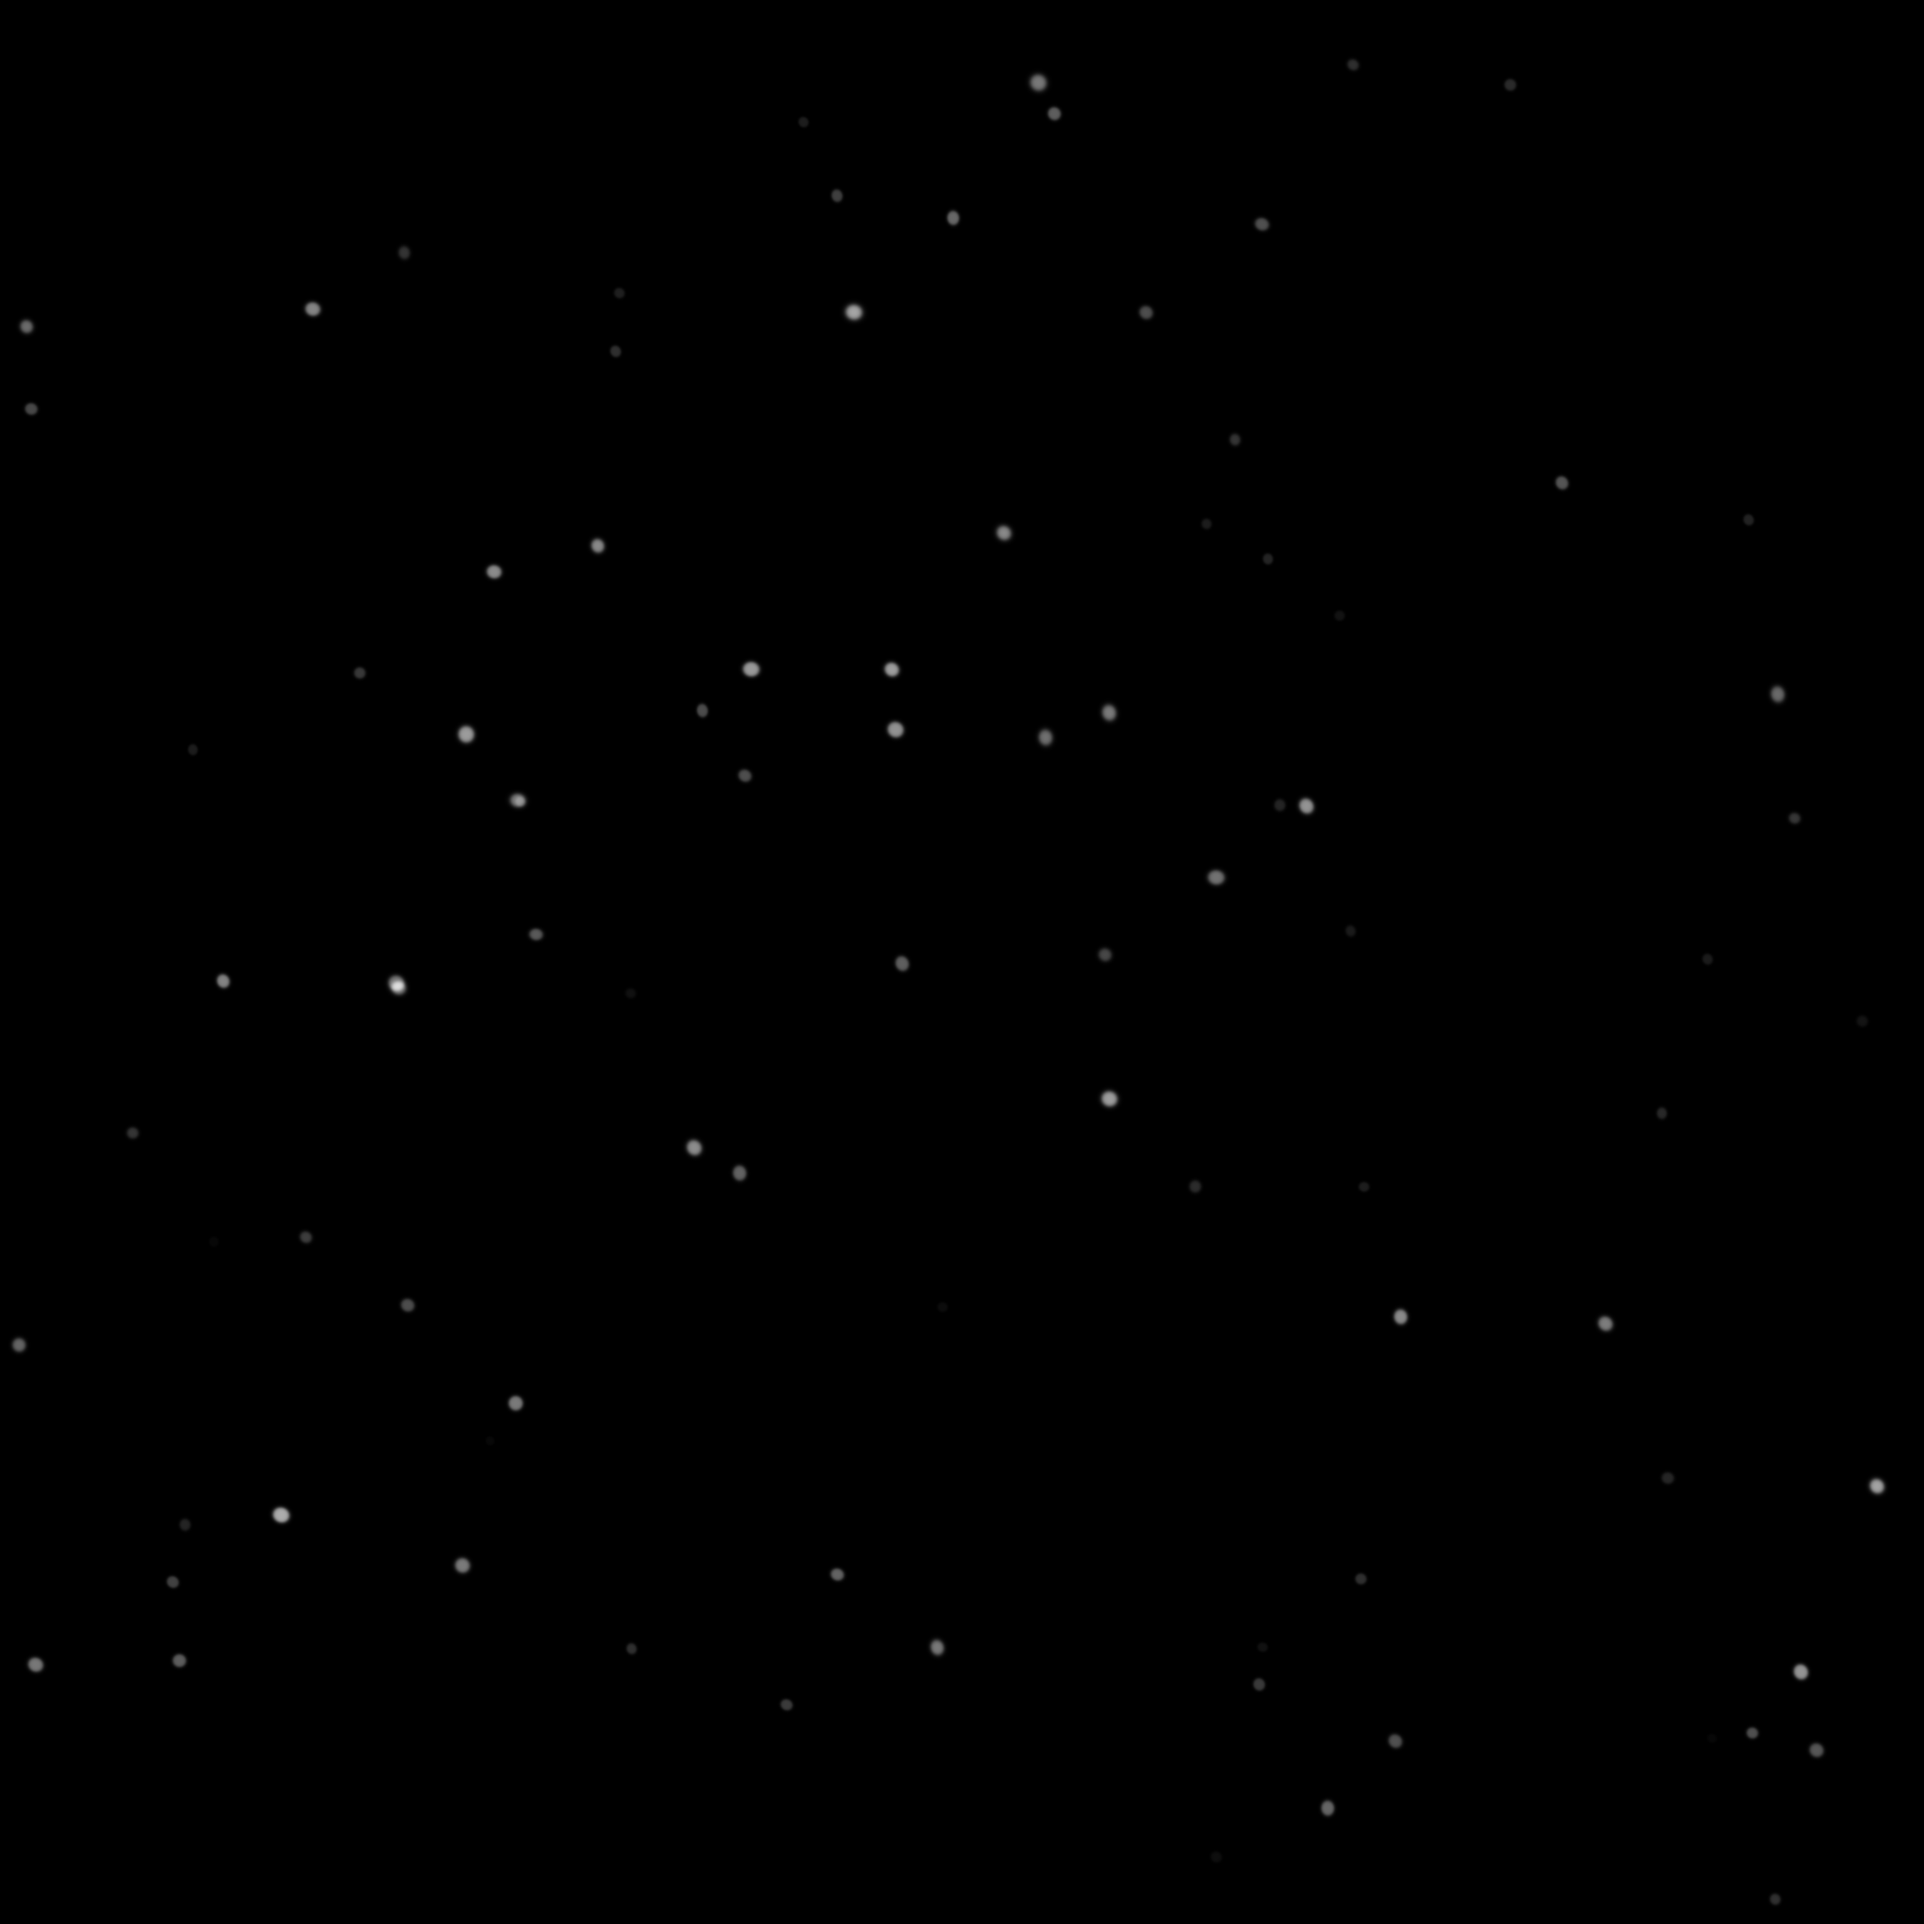
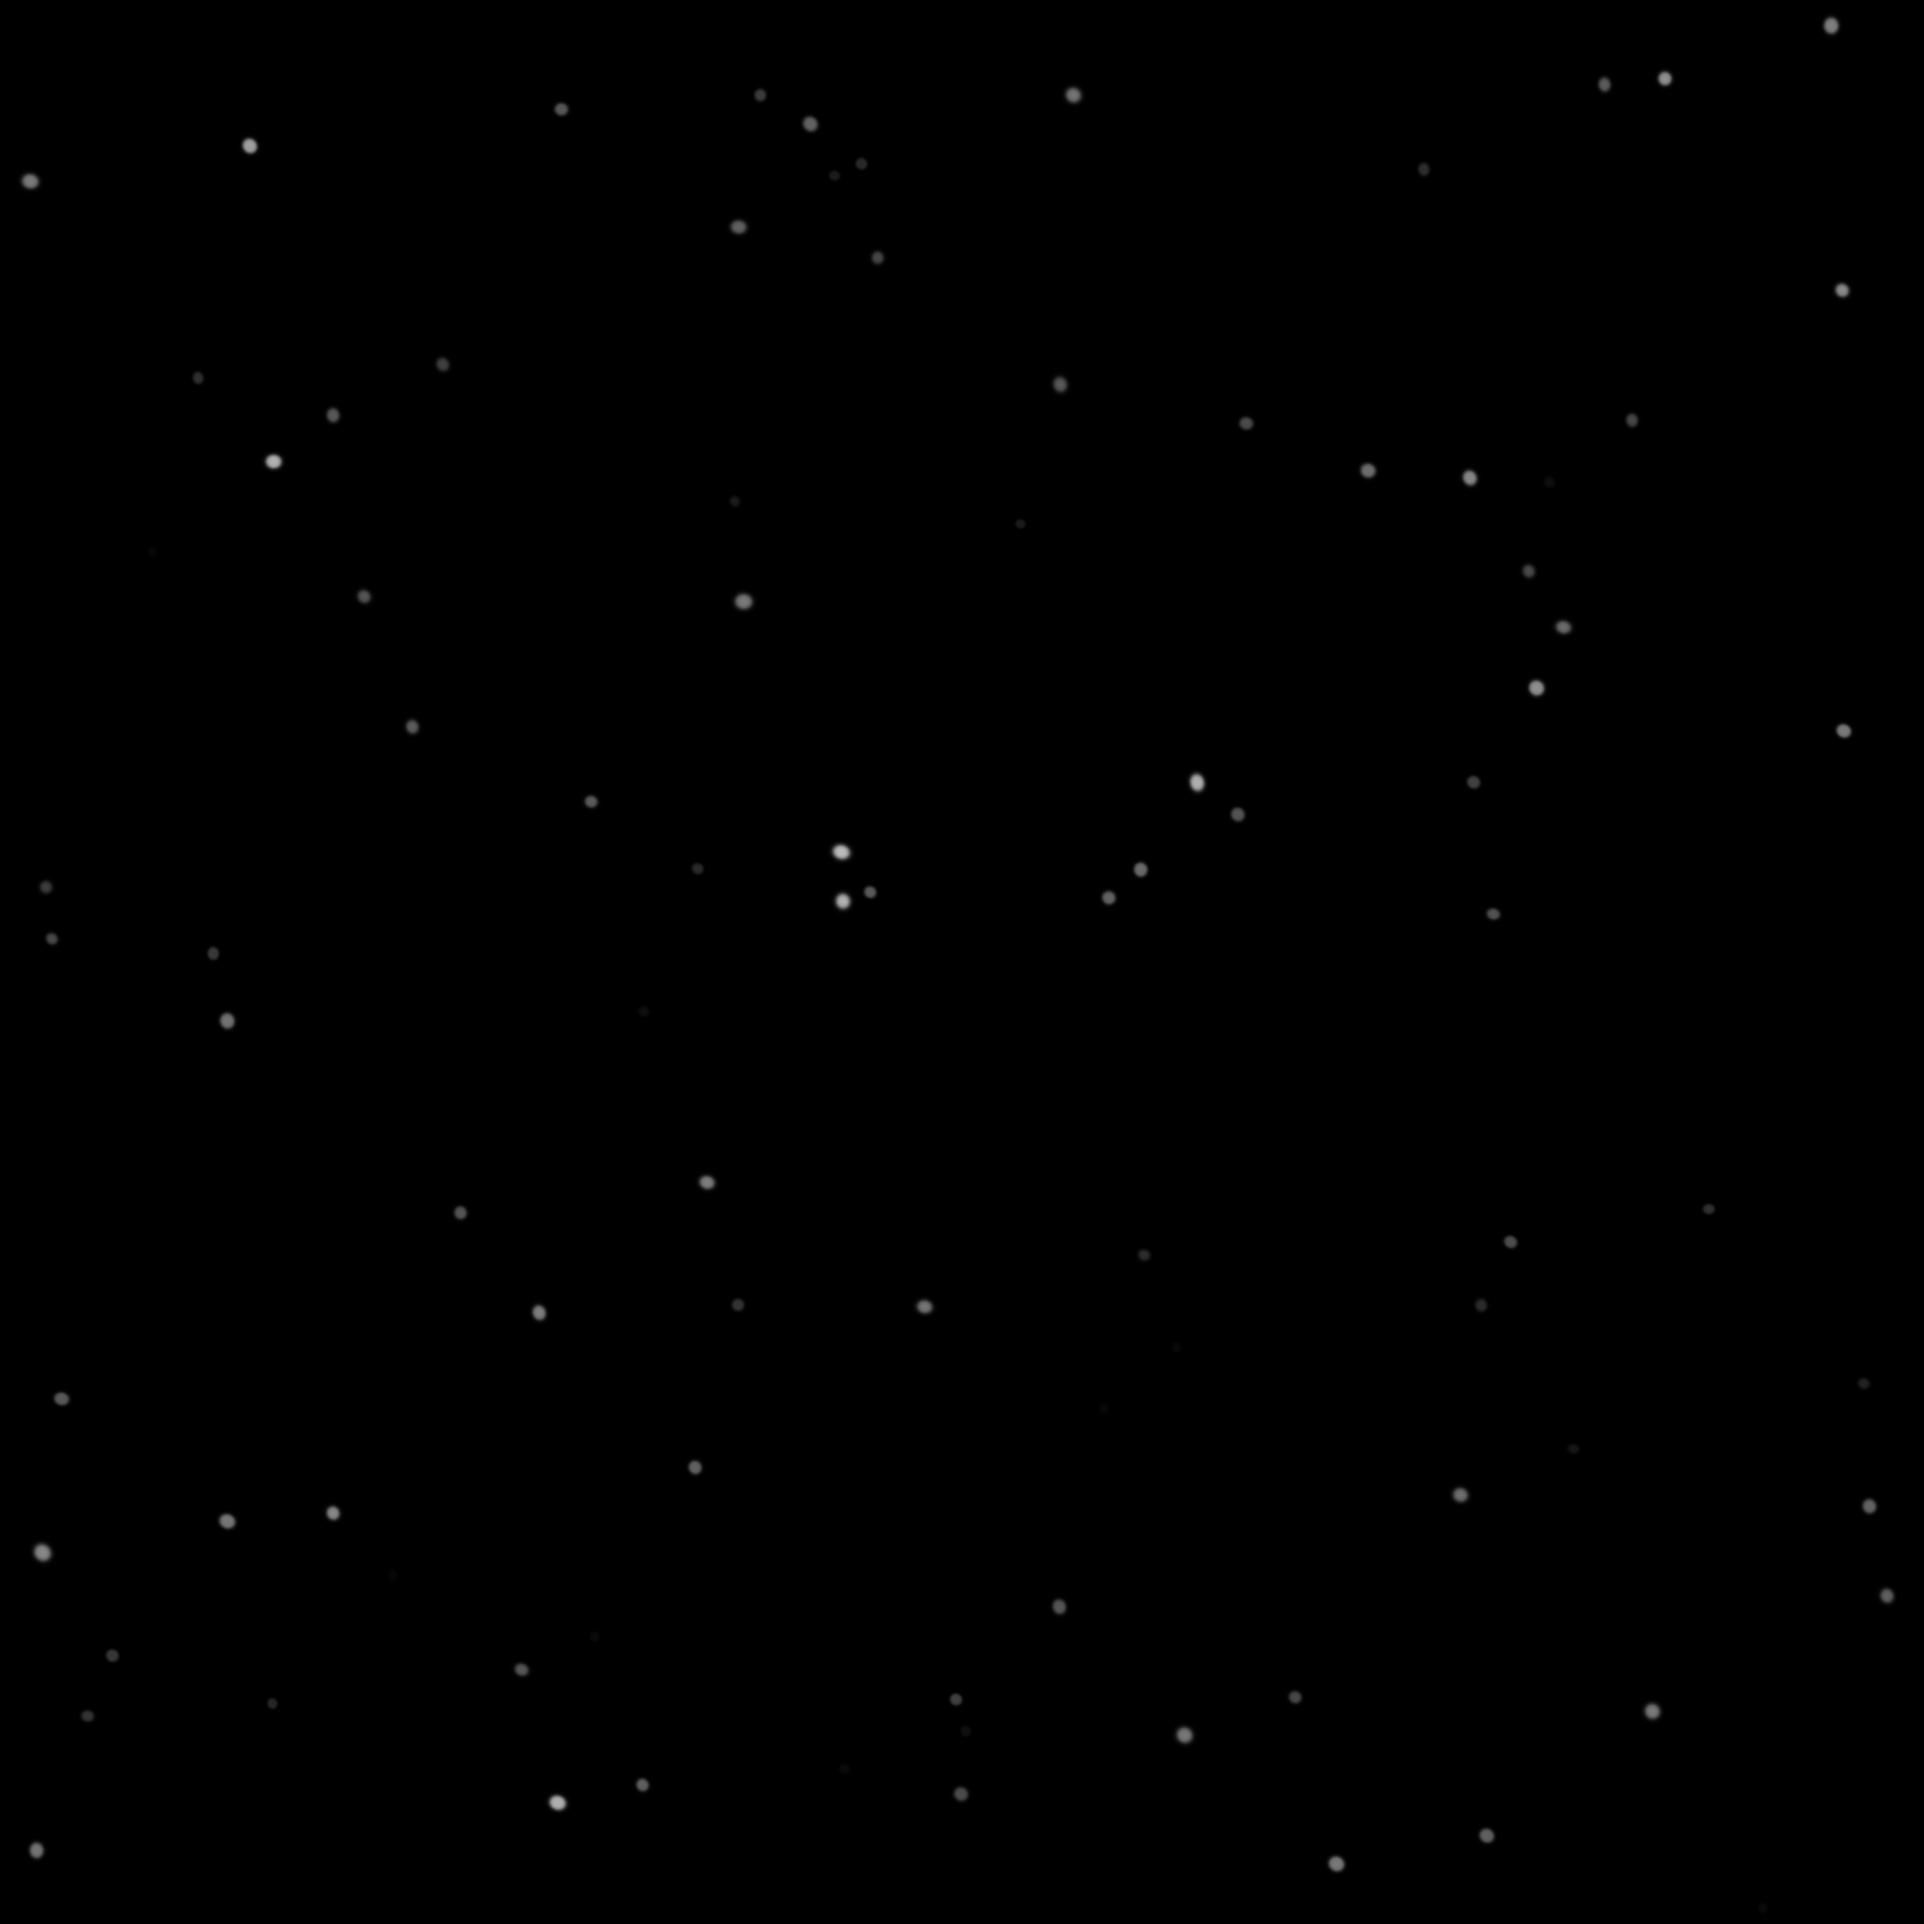
add

Changed region(s): [[0.5312, 0.0312, 0.5625, 0.0625], [0.4375, 0.4375, 0.4688, 0.4688], [0.3438, 0.5938, 0.375, 0.625]]

diff --git a/generate_image_random.py b/generate_image_random.py
@@ -1,0 +1,141 @@
+import uuid
+
+from matplotlib import pyplot as plt
+from stars import BH_stars_img
+from telescope_simulator import TelescopeSimulator
+import json
+import cv2
+import os
+import pandas as pd
+from tqdm import tqdm
+import glob
+import time
+import concurrent.futures
+import shutil
+import numpy as np
+
+
+num_imgaes = 10
+height = 1024
+width = 1024
+shape = 'rect'
+mode = 'train_val'
+noise_radius = 0
+
+def generate_image_func(angular_pixel_size_input_image):
+
+    tele_config = dict(
+        input_image = r"./stars/BHs.png", telescope_diameter_m = 6.5,
+        telescope_focal_length_m = 131.4, angular_pixel_size_input_image = angular_pixel_size_input_image,
+        wavelength = 100e-9, CCD_pixel_size = angular_pixel_size_input_image * 131.4 / 206265,
+        CCD_pixel_count = 1024, show = False,
+    )
+
+    stars_config = dict(
+        BHs_path='tele_datasets/224/',num_stars=1, num_BHs=0, stars_lower_size=5, stars_upper_size=15,
+        height=height, width=width, bg_color=0, shape=shape, BHS_lower_size=30, BH_upper_size=50
+    )
+
+    data_dir = f'tele_datasets/Changing/num{num_imgaes}_{shape}_wl{tele_config["wavelength"]:.3e}_'\
+    f'D{tele_config["telescope_diameter_m"]:.2f}_F{tele_config["telescope_focal_length_m"]}_'\
+    f'AS{tele_config["angular_pixel_size_input_image"]:.2e}_BHSize{stars_config["BHS_lower_size"]}-{stars_config["BH_upper_size"]}'
+
+
+    if mode == 'train_val':
+        try:
+            os.mkdir(f'{data_dir}')
+            os.mkdir(f'{data_dir}/images')
+            os.mkdir(f'{data_dir}/labels')
+        except:
+            shutil.rmtree(f'{data_dir}')
+            os.mkdir(f'{data_dir}')
+            os.mkdir(f'{data_dir}/images')
+            os.mkdir(f'{data_dir}/labels')
+
+
+    with open(f'{data_dir}/data.yaml', 'w') as f:
+        f.write(f'path: ../{data_dir}\n')
+        f.write('train: ./train/images\n')
+        f.write('val: ../validation/images\n\n')
+        f.write('nc: 2\n')
+        f.write("names: ['star', 'BH']\n")
+
+
+    with open(f"{data_dir}/telescope_config.json", "w") as json_file:
+        json.dump(tele_config, json_file)
+
+    with open(f"{data_dir}/stars_config.json", "w") as json_file:
+        json.dump(stars_config, json_file)
+
+
+    df = pd.DataFrame(columns=['images', 'labels'])
+
+
+    for i in tqdm(range(num_imgaes)):
+        img = BH_stars_img(**stars_config)
+        img.stars_gen()
+        # img.BHs_gen()
+        # noise_BHs = img.add_noise(img.stars_BHs_img, radius=noise_radius)
+        tele_config['input_image'] = img.stars_BHs_img
+        telescope_simulator = TelescopeSimulator(**tele_config)
+        code = uuid.uuid4()
+        if mode == 'train_val':
+            bh_path = f"{data_dir}/images/BHs_{code}.png"
+            # bh_path_origin = f"{data_dir}/train/images/BHs_{code}_origin.png"
+            txt_path = f"{data_dir}/labels/BHs_{code}.txt"
+        elif mode == 'img_lab':
+            bh_path = f"{data_dir}/images/BHs_{code}.png"
+            txt_path = f"{data_dir}/labels/BHs_{code}.txt"
+        else:
+            df = pd.concat([df, pd.DataFrame({"images":[f"BHs_{code}.png"], "labels": [f"BHs_{code}.txt"]})])
+            bh_path = f"{data_dir}/images/BHs_{code}.png"
+            txt_path = f"{data_dir}/labels/BHs_{code}.txt"
+        # print(i)
+        show=False
+        im_array = img.stars_BHs_img
+        # plt.imshow(im_array)
+        # plt.show()
+        intensity_image = telescope_simulator.get_intensity(im_array, show=show)
+        conv_image = telescope_simulator.get_convolved_image(im_array, intensity_image, show=show)
+        output_img = telescope_simulator.generate_image(conv_image, show=show)
+        # output_img = telescope_simulator.generate_image(show=False)
+        output_img = output_img.astype(np.int64)
+        noisy_img = output_img + np.random.normal(loc=0, scale=noise_radius, size=(height, width))
+        noisy_img = np.where(noisy_img > 255, 255, noisy_img)
+        noisy_img = np.where(noisy_img < 0, 0, noisy_img)
+        noisy_img = noisy_img.astype(np.uint8)
+        noisy_img = cv2.resize(noisy_img, (1024, 1024))
+        cv2.imwrite(bh_path, noisy_img)
+        img.txtGen(txt_path=txt_path)
+
+
+
+    if mode == 'csv':
+        df.to_csv(f"{data_dir}/train.csv", header=False, index=False)
+
+
+
+    # img_lst = glob.glob(f'{data_dir}/*/*/*.png')
+
+
+    # for img_name in tqdm(img_lst):
+    #     img = cv2.imread(img_name, cv2.IMREAD_GRAYSCALE)
+    #     img_resize = cv2.resize(img, (1024, 1024))
+    #     cv2.imwrite(img_name, img_resize)
+
+
+
+if __name__ == '__main__':
+    # np.arange(5e-5, 2e-4, 1e-5)
+    angular_pixel_size_input_images = np.arange(5e-4, 1e-3, 5e-5)
+    t1 = time.perf_counter()
+    with concurrent.futures.ProcessPoolExecutor() as executor:
+        executor.map(generate_image_func, angular_pixel_size_input_images)
+    # for i in angular_pixel_size_input_images:
+    #     generate_image_func(i)
+    # generate_image_func(5e-4)    
+    t2 = time.perf_counter()
+    with open('tele_datasets/records.txt', 'a') as f:
+        for i in angular_pixel_size_input_images:
+            f.write(f'{i:2e}\n')
+

diff --git a/stars.py b/stars.py
@@ -105,7 +105,7 @@ class BH_stars_img():
 
         Returns:
             _type_: _description_
-        """        
+        """ 
         img = img.astype(np.int64)
         noisy_img = img + np.random.normal(loc=0, scale=radius, size=(self.height, self.width))
         noisy_img = np.where(noisy_img > 255, 255, noisy_img)
@@ -136,7 +136,7 @@ class BH_stars_img():
             size = np.random.randint(low=self.stars_lower_size, high=self.stars_upper_size)  # Size of the square grid
             sigma_x = np.random.uniform(0.9, 1.1)  # Standard deviation for the Gaussian distribution
             sigma_y = np.random.uniform(0.9, 1.1)  # Standard deviation for the Gaussian distribution
-            luminosity = (size - self.stars_lower_size) / (self.stars_upper_size - self.stars_lower_size) * \
+            luminosity = (size - self.stars_lower_size + 0.3) / (self.stars_upper_size - self.stars_lower_size) * \
                          np.random.uniform(0.5, 0.8)  # Maximum brightness at the center
             if color:
                 pass
@@ -220,31 +220,38 @@ class BH_stars_img():
         Args:
             txt_path (str, optional): _description_. Defaults to 'labels.txt'.
         """        
-        if self.shape == 'rect':
+        if self.num_BHs != 0:
+            if self.shape == 'rect':
+                
+                BH_df = pd.DataFrame(self.BH_lst, columns=['xc', 'yc', 'width', 'height'])
+                BH_df['type'] = 1
+                type_column = BH_df.pop('type')
+                BH_df.insert(0, 'type', type_column)
             
-            BH_df = pd.DataFrame(self.BH_lst, columns=['xc', 'yc', 'width', 'height'])
-            BH_df['type'] = 1
-            type_column = BH_df.pop('type')
-            BH_df.insert(0, 'type', type_column)
-        
+                stars_df = pd.DataFrame(self.stars_lst, columns=['xc', 'yc', 'width', 'height'])
+                stars_df['type'] = 0
+                type_column = stars_df.pop('type')
+                stars_df.insert(0, 'type', type_column)
+            
+            elif self.shape == 'circle':
+                BH_df = pd.DataFrame(self.BH_lst, columns=['xc', 'yc', 'radius'])
+                BH_df['type'] = 1
+                type_column = BH_df.pop('type')
+                BH_df.insert(0, 'type', type_column)
+            
+                stars_df = pd.DataFrame(self.stars_lst, columns=['xc', 'yc', 'radius'])
+                stars_df['type'] = 0
+                type_column = stars_df.pop('type')
+                stars_df.insert(0, 'type', type_column)
+
+            df = pd.concat([BH_df, stars_df])
+        # Convert to TXT file with space as delimiter
+        else:
             stars_df = pd.DataFrame(self.stars_lst, columns=['xc', 'yc', 'width', 'height'])
             stars_df['type'] = 0
             type_column = stars_df.pop('type')
             stars_df.insert(0, 'type', type_column)
-        
-        elif self.shape == 'circle':
-            BH_df = pd.DataFrame(self.BH_lst, columns=['xc', 'yc', 'radius'])
-            BH_df['type'] = 1
-            type_column = BH_df.pop('type')
-            BH_df.insert(0, 'type', type_column)
-        
-            stars_df = pd.DataFrame(self.stars_lst, columns=['xc', 'yc', 'radius'])
-            stars_df['type'] = 0
-            type_column = stars_df.pop('type')
-            stars_df.insert(0, 'type', type_column)
-
-        df = pd.concat([BH_df, stars_df])
-        # Convert to TXT file with space as delimiter
+            df = stars_df
         df.to_csv(txt_path, sep=' ', index=False, header=False)
 
 
